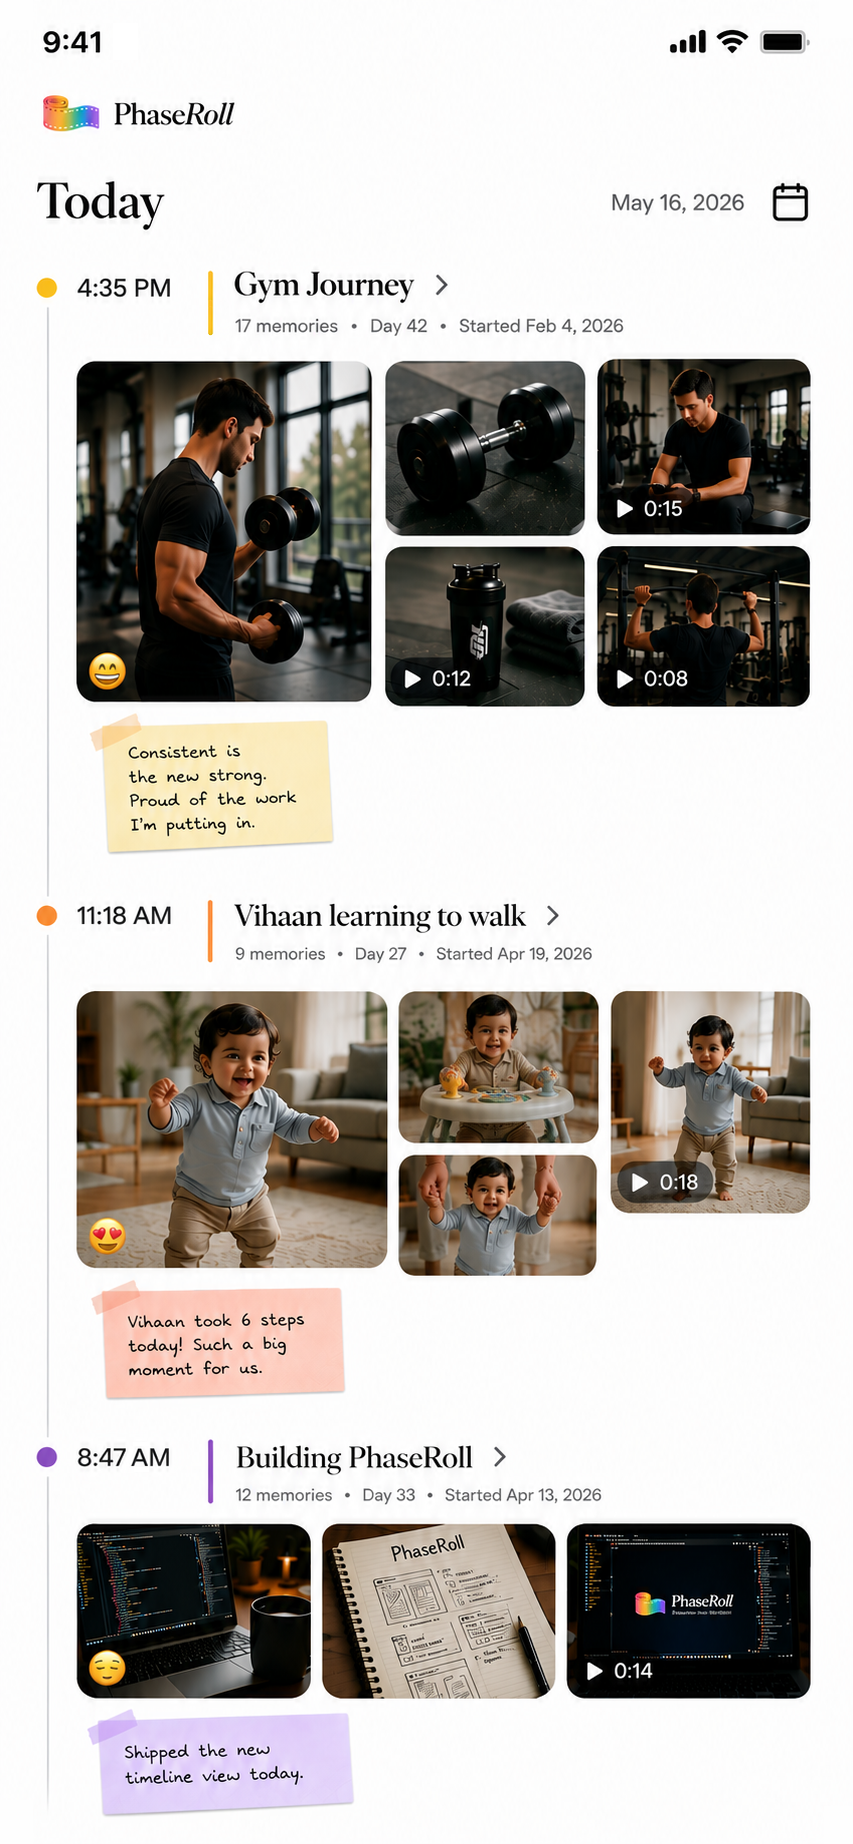
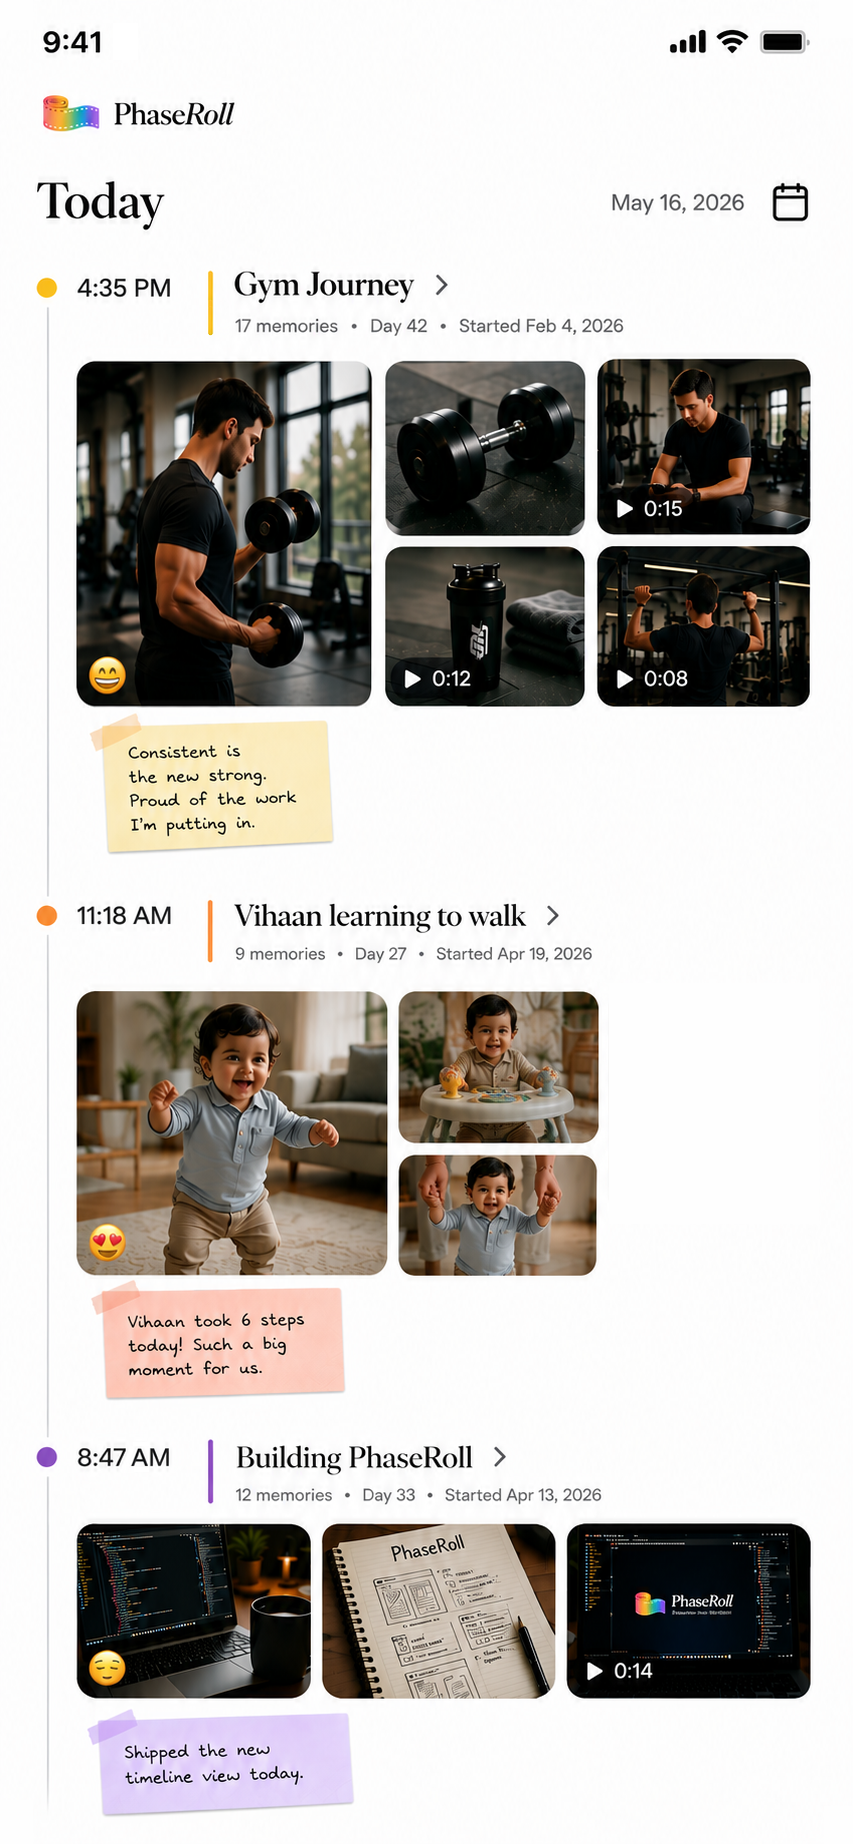
major changes based on naveena's inputs

diff --git a/app/page.tsx b/app/page.tsx
@@ -12,7 +12,7 @@ const MOCKUPS = [
   {
     src: "/phase_view.png",
     alt: "Phase view showing a vertical grid of photos with a voice-note marker",
-    caption: "01 — The phase view",
+    caption: "01 — A Phase timeline",
     slot: "Slot 01 — phase view",
   },
   {
@@ -48,9 +48,16 @@ export default function Home() {
                 <span className="motto-word em">phases.</span>
               </h1>
               <p className="body mute measure-52">
-                Organize your memories by life&rsquo;s chapters, not camera
-                rolls. Capture photos, record voice memories, and relive what
-                mattered.
+                Create a Phase for any chapter of your life, like{" "}
+                <span className="border-l-2 pl-1 border-amber-500 text-amber-500 font-medium">
+                  Our First Home
+                </span>{" "}
+                or {" "}
+                <span className="border-l-2 pl-1 border-orange-500 text-orange-500 font-medium">
+                  My Fitness Journey
+                </span>
+                . Save photos, videos, voice memories, and notes as they happen.
+                Return anytime and relive the whole story in one place.
               </p>
               <FoundingOffer />
               <WaitlistForm source="hero" note />
@@ -95,11 +102,78 @@ export default function Home() {
                 <span className="em">no story.</span>
               </h2>
               <p className="body mute measure-60">
-                Years later, you won&rsquo;t look for a date. You&rsquo;ll look
-                for your child&rsquo;s first steps, the trip you took with your
-                partner, or the home where everything began. Memory keeps
-                chapters. Your camera roll should too.
+                Your camera roll keeps everything in one stream, organized by
+                date. Google Photos may turn a selection into an automatic
+                memory or reel. PhaseRoll lets you decide which stories matter
+                while you live them. Save each photo, video, voice memory, or
+                note to a named Phase such as University, My Fitness Journey,
+                or Our First Home. Later, return to that Phase without
+                searching through years of photos.
               </p>
+            </div>
+          </section>
+        </Reveal>
+
+        <Reveal>
+          <section
+            className="frame mockups-frame"
+            aria-labelledby="mockups"
+          >
+            <div className="frame__inner">
+              <h2 className="display-l" id="mockups">
+                Step inside <span className="em">PhaseRoll.</span>
+              </h2>
+              <p className="body mute measure-60 mockups-intro">
+                Start with one Phase. Create as many as you need while life
+                unfolds. PhaseRoll keeps every story ready to revisit.
+              </p>
+              <ol className="phase-flow" aria-label="How PhaseRoll works">
+                <li className="phase-flow__step">
+                  <span className="phase-flow__number">01</span>
+                  <div>
+                    <h3>Create a Phase</h3>
+                    <p>
+                      Choose a chapter worth remembering, like life in a new
+                      city, a dream trip, or building something of your own.
+                    </p>
+                  </div>
+                </li>
+                <li className="phase-flow__step">
+                  <span className="phase-flow__number">02</span>
+                  <div>
+                    <h3>Save what happens</h3>
+                    <p>
+                      Capture the story as it unfolds with photos, videos,
+                      voice memories, and notes that hold the little details.
+                    </p>
+                  </div>
+                </li>
+                <li className="phase-flow__step">
+                  <span className="phase-flow__number">03</span>
+                  <div>
+                    <h3>Relive it anytime</h3>
+                    <p>
+                      Open any Phase later to see, hear, and
+                      relive the people, places, and moments that made it special.
+                    </p>
+                  </div>
+                </li>
+              </ol>
+              <p className="caption mockups-label">Inside the app</p>
+              <div
+                className="mockups"
+                tabIndex={0}
+                role="group"
+                aria-label="App screens"
+              >
+                {MOCKUPS.map((mockup, i) => (
+                  <PhoneMockup
+                    key={mockup.src}
+                    {...mockup}
+                    priority={i === 0}
+                  />
+                ))}
+              </div>
             </div>
           </section>
         </Reveal>
@@ -122,33 +196,6 @@ export default function Home() {
             <FilmStrip />
           </div>
         </section>
-
-        <Reveal>
-          <section
-            className="frame mockups-frame"
-            aria-labelledby="mockups"
-          >
-            <div className="frame__inner">
-              <h2 className="display-l" id="mockups">
-                See PhaseRoll in <span className="em">action.</span>
-              </h2>
-              <div
-                className="mockups"
-                tabIndex={0}
-                role="group"
-                aria-label="App screens"
-              >
-                {MOCKUPS.map((mockup, i) => (
-                  <PhoneMockup
-                    key={mockup.src}
-                    {...mockup}
-                    priority={i === 0}
-                  />
-                ))}
-              </div>
-            </div>
-          </section>
-        </Reveal>
 
         <Reveal>
           <section

diff --git a/app/globals.css b/app/globals.css
@@ -1,3 +1,5 @@
+@import "tailwindcss";
+
 /* ---------------------------------------------------------------------------
    PhaseRoll — design system.
    Four colour tokens plus one gradient. Colour appears in exactly one place.
@@ -566,11 +568,9 @@ a {
   min-width: 0;
   min-height: 3rem;
   padding: 0.75rem 1rem;
-  border: 1px solid transparent;
+  border: 1px solid var(--ink);
   border-radius: 999px;
-  background:
-    linear-gradient(var(--paper), var(--paper)) padding-box,
-    var(--spectrum) border-box;
+  background: var(--paper);
   font-size: 1rem;
 }
 
@@ -660,7 +660,6 @@ a {
 .film-section {
   position: relative;
   overflow: hidden;
-  padding-inline: clamp(1.25rem, 2.5vw, 2rem);
 }
 
 .film-section::before {
@@ -680,7 +679,6 @@ a {
 
 .film-section .frame__inner {
   position: relative;
-  max-width: 1536px;
 }
 
 .film-intro {
@@ -923,8 +921,19 @@ a {
 
 /* ≥1024px — one strip, four frames, sprockets across the full width. */
 @media (min-width: 1024px) {
+  .film-section {
+    --sprocket-h: 1rem;
+    --rail-pad: 0.5rem;
+  }
+
   .strip {
     grid-template-columns: repeat(4, minmax(0, 1fr));
+  }
+
+  .sframe__body {
+    min-height: 15rem;
+    gap: 0.875rem;
+    padding-block: 2rem;
   }
 
   .rail--mid {
@@ -977,6 +986,78 @@ a {
 
 .mockups-frame::after {
   transform: translate(-50%, -50%) rotate(7deg);
+}
+
+.mockups-intro {
+  margin-top: 1.25rem;
+}
+
+.phase-flow {
+  display: grid;
+  grid-template-columns: repeat(3, minmax(0, 1fr));
+  margin-top: clamp(2rem, 5vw, 3.5rem);
+  border-block: 1px solid var(--hair);
+}
+
+.phase-flow__step {
+  display: grid;
+  grid-template-columns: auto minmax(0, 1fr);
+  gap: 1rem;
+  padding: clamp(1.25rem, 3vw, 2rem) clamp(1rem, 2.5vw, 2rem);
+}
+
+.phase-flow__step:first-child {
+  padding-left: 0;
+}
+
+.phase-flow__step:last-child {
+  padding-right: 0;
+}
+
+.phase-flow__step + .phase-flow__step {
+  border-left: 1px solid var(--hair);
+}
+
+.phase-flow__number {
+  align-self: start;
+  padding-top: 0.2rem;
+  color: var(--mute);
+  font-size: 0.8125rem;
+  line-height: 1.15;
+  letter-spacing: 0.1em;
+}
+
+.phase-flow h3 {
+  font-family: var(--display);
+  font-size: clamp(1.25rem, 2vw, 1.5rem);
+  font-weight: 400;
+  line-height: 1.15;
+}
+
+.phase-flow p {
+  margin-top: 0.5rem;
+  color: var(--mute);
+  font-size: 0.9375rem;
+  line-height: 1.55;
+}
+
+.mockups-label {
+  margin-top: clamp(2.5rem, 6vw, 4rem);
+}
+
+@media (max-width: 899px) {
+  .phase-flow {
+    grid-template-columns: minmax(0, 1fr);
+  }
+
+  .phase-flow__step {
+    padding-inline: 0;
+    border-left: 0;
+  }
+
+  .phase-flow__step + .phase-flow__step {
+    border-top: 1px solid var(--hair);
+  }
 }
 
 .privacy-frame {
@@ -1470,7 +1551,7 @@ a {
 .mockups {
   display: flex;
   gap: clamp(1.25rem, 3vw, 2.5rem);
-  margin-top: clamp(3rem, 7vw, 4.5rem);
+  margin-top: 1rem;
   overflow-x: auto;
   scroll-snap-type: x mandatory;
   padding-bottom: 0.5rem;

diff --git a/app/components/FilmStrip.tsx b/app/components/FilmStrip.tsx
@@ -1,11 +1,11 @@
 const FRAMES = [
   {
     title: "Phases",
-    copy: "Create a phase for your child’s first years, the trip you’re planning together, or the new home you’re about to make your own. Every memory from that chapter stays together.",
+    copy: "Create as many Phases as you need for the different parts of life. Each photo, video, voice memory, and note stays in the Phase where it belongs.",
   },
   {
     title: "Camera styles",
-    copy: "Give each moment a distinct look: camcorder, film grain, monochrome, and more.",
+    copy: "Give each Phase a distinct look: camcorder, film grain, monochrome, and more.",
   },
   {
     title: "Voice memories",
